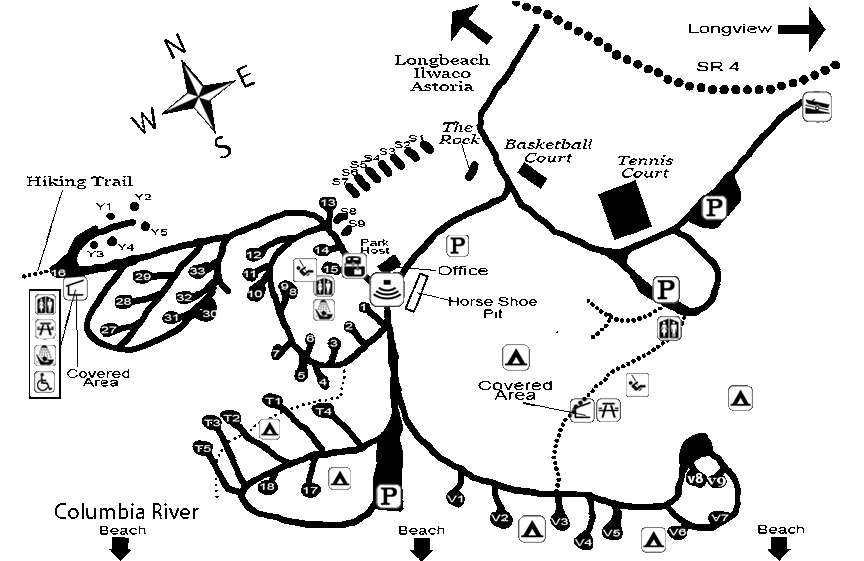
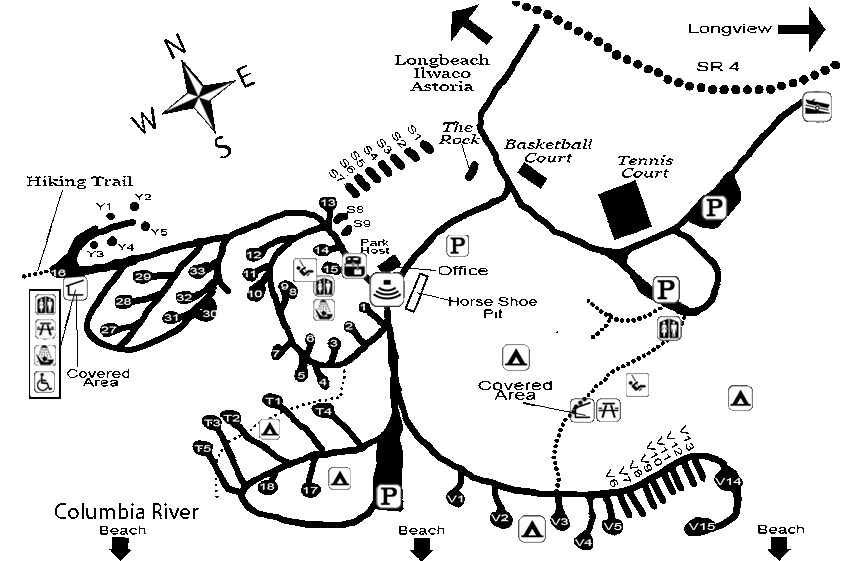
Park Map Update

diff --git a/park_map.html b/park_map.html
@@ -62,7 +62,7 @@
             <ul>
                 <li><a href="events.html">Event Planning</a></li>
                 <li><a href="#">Calendar</a></li>
-                <!-- <!-- <li><a href="#">18 hole disc golf</a></li>
+                <!-- <li><a href="#">18 hole disc golf</a></li>
                 <li><a href="#">Rates</a></li> -->
             </ul>
         </li>
@@ -96,8 +96,8 @@
     1 - 15:  &nbsp;&nbsp;&nbsp; All have electricity. 3,6,8 and14 have water.<br><br>
     S3 - S9: &nbsp;Full hook-up RV sites. <br><br>
     T1 - T5: &nbsp;Primitive tent sites. <br><br>
-    V1 - V6: Primitive and will fit most RVs. <br><br>
-    V7 - V9: Electricity available, may require an extra extension cord. <br><br>
+    V1 - V3: Primitive and will fit most RVs. <br><br>
+    V4 - V15: Electric and water. <br><br>
     16,17 & 18: Primitive tent sites. 
 </p>
 
